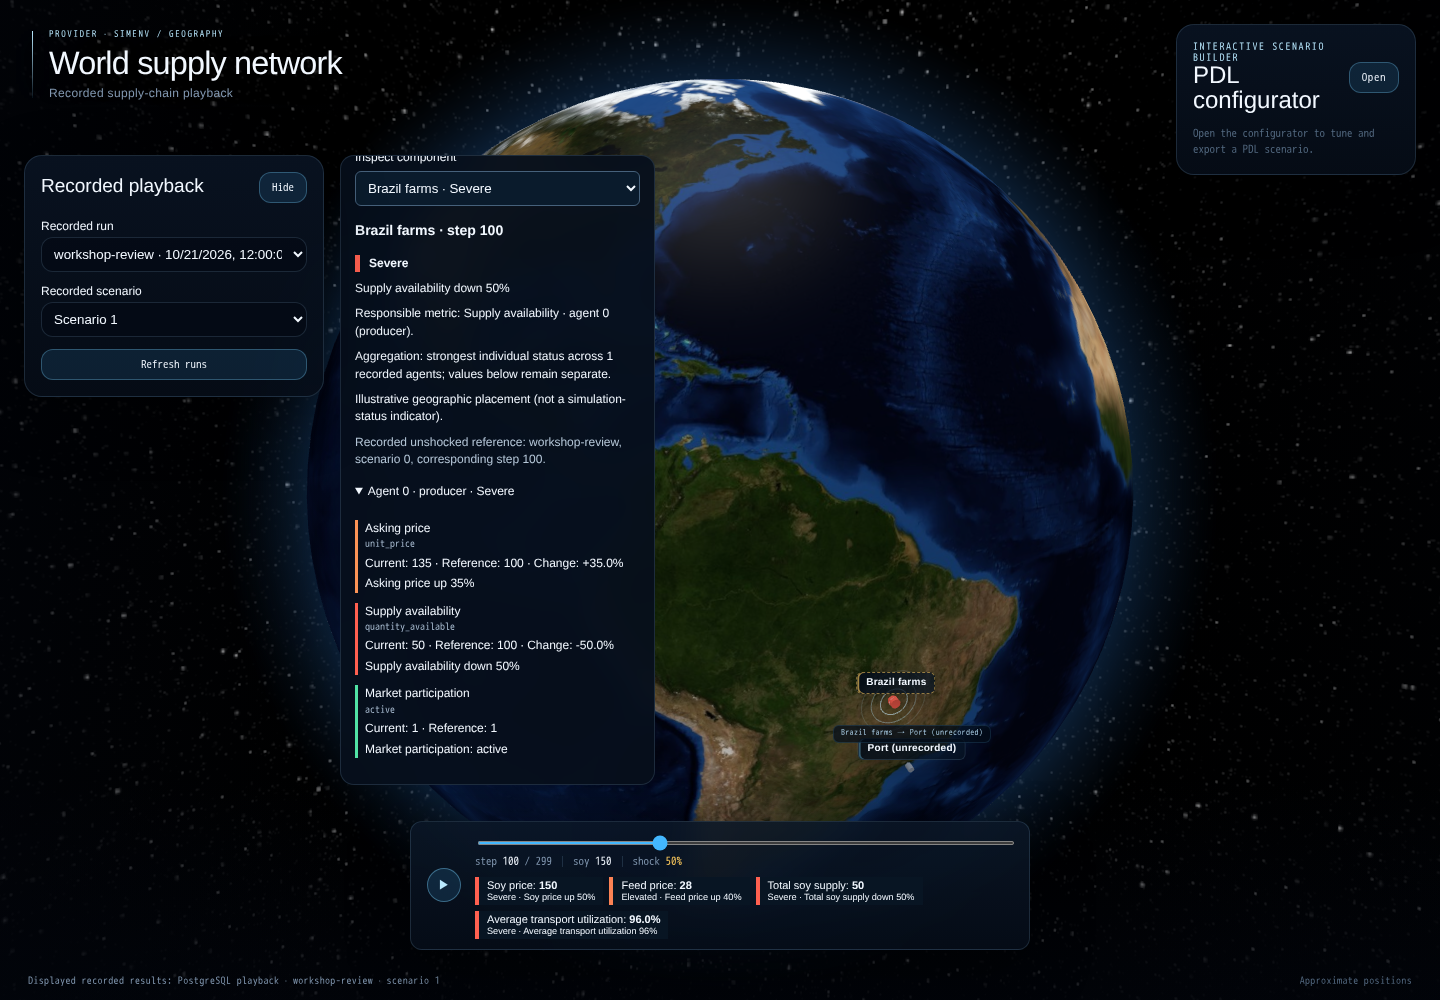
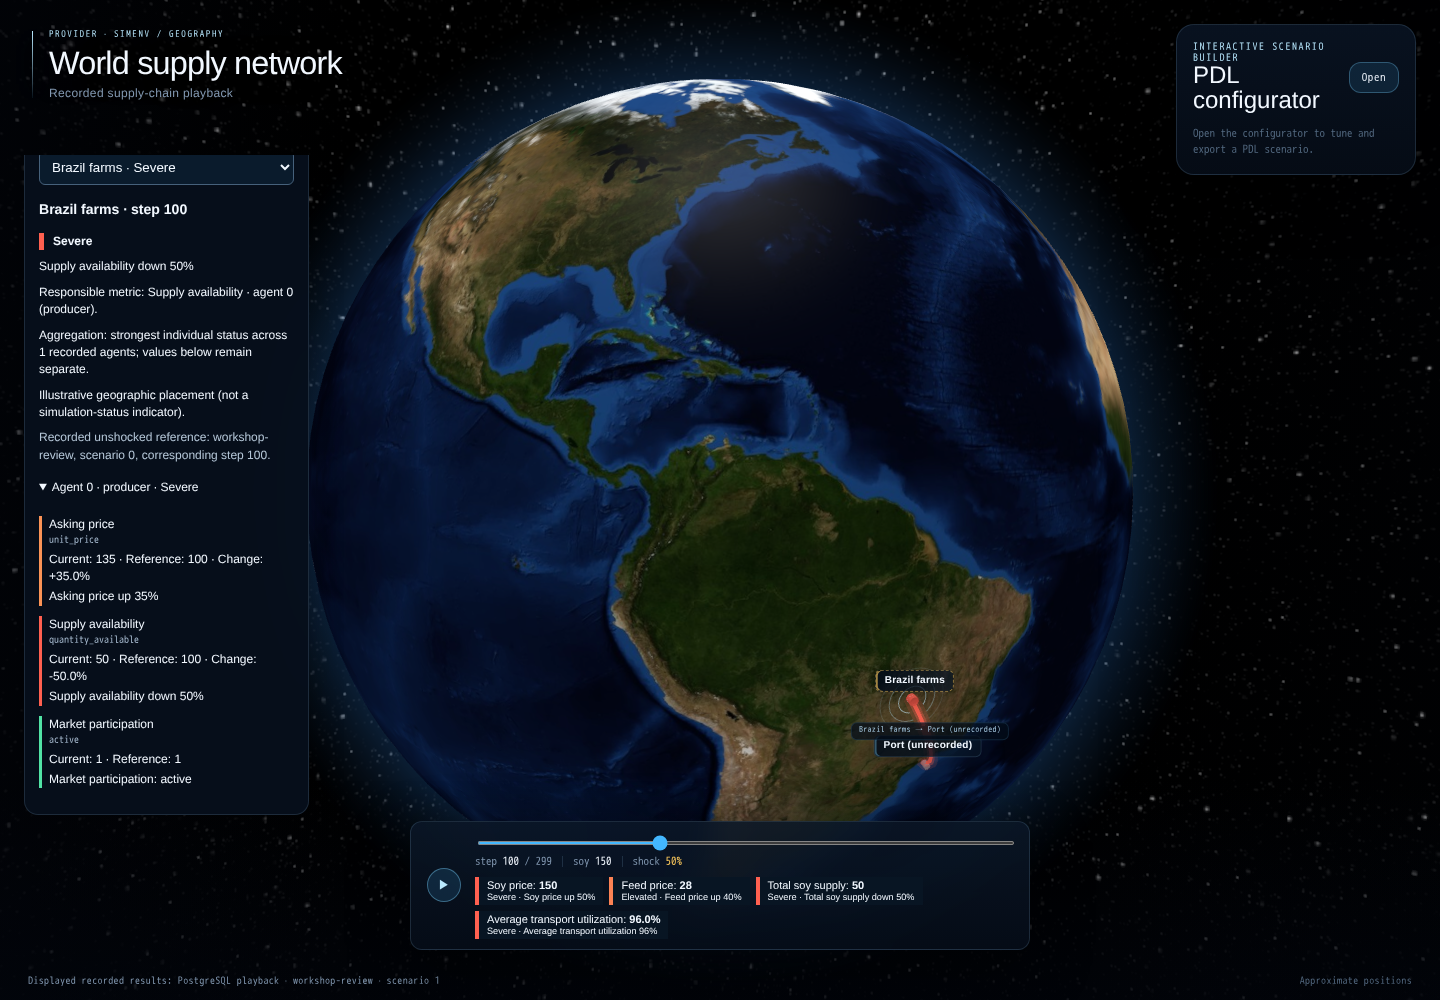
fix: restore network links and stack impact sidebar (#75)

diff --git a/web/src/App.tsx b/web/src/App.tsx
@@ -1,4 +1,5 @@
-import { Profiler, useCallback, useEffect, useMemo, useRef, useState, type CSSProperties } from 'react'
+import { Profiler, useCallback, useEffect, useId, useMemo, useRef, useState, type CSSProperties } from 'react'
+import { createPortal } from 'react-dom'
 import type { PlaybackSource, RunSummary } from './data/playback'
 import { resolveScene } from './data/gazetteer'
 import { designVars } from './design/tokens'
@@ -25,6 +26,7 @@ export default function App({ source }: { source: PlaybackSource }) {
   const [refresh, setRefresh] = useState(0)
   const [offset, setOffset] = useState(0)
   const [nextOffset, setNextOffset] = useState(0)
+  const [impactSlot, setImpactSlot] = useState<HTMLDivElement | null>(null)
   const selection = useRef('')
   const opening = useRef<AbortController | null>(null)
   const refreshRuns = useCallback(() => { setOffset(0); setRefresh(value => value + 1) }, [])
@@ -92,7 +94,8 @@ export default function App({ source }: { source: PlaybackSource }) {
   return <main className="sim-app" style={designVars as CSSProperties}>
     <header className="sim-frame-heading"><p className="sim-frame-eyebrow">PROVIDER · SIMENV / GEOGRAPHY</p>
       <h1>World supply network</h1><p className="sim-frame-subtitle">Recorded supply-chain playback</p></header>
-    <RunSelector runs={runs} selected={selected} scenario={scenario} loading={loading} error={error}
+    <div className="sim-playback-sidebar">
+      <RunSelector runs={runs} selected={selected} scenario={scenario} loading={loading} error={error}
       hasMore={nextOffset < total} onRefresh={refreshRuns} onMore={() => setOffset(nextOffset)}
       onRun={id => {
         const run = runs.find(item => item.id === id)
@@ -101,17 +104,21 @@ export default function App({ source }: { source: PlaybackSource }) {
         selection.current = id; setSelected(id)
         setScenario(run.scenario_ids.includes(1) ? 1 : run.scenario_ids[0])
       }} onScenario={id => { opening.current?.abort(); setScenario(id) }} />
-    {selected ? <SelectedPlayback key={`${selected}:${scenario}`} source={source} run={selected} scenario={scenario} runs={runs} />
+      <div ref={setImpactSlot} />
+    </div>
+    {selected ? <SelectedPlayback key={`${selected}:${scenario}`} source={source} run={selected} scenario={scenario} runs={runs} impactSlot={impactSlot} />
       : <div className="sim-playback-message">Select a completed run for playback.</div>}
     <ScenarioConfigurator meta={{ pdl: 's1-soja.pdl.yaml', scenario: '', ticks: 0, generatedAt: '', honestyNote: '' }} onCompleted={refreshRuns} onViewResults={viewResults} />
   </main>
 }
 
-function SelectedPlayback({ source, run, scenario, runs }: { source: PlaybackSource; run: string; scenario: number; runs: RunSummary[] }) {
+function SelectedPlayback({ source, run, scenario, runs, impactSlot }: { source: PlaybackSource; run: string; scenario: number; runs: RunSummary[]; impactSlot: HTMLElement | null }) {
   const playback = usePlayback(source, run, scenario)
   const [referenceChoice, setReferenceChoice] = useState(() => runs.find(item => item.id === run)?.scenario_ids.includes(0) ? run : 'start')
   const reference = useReference(source, playback.scene, playback.frame, playback.baseline, referenceChoice)
   const [selectedNode, setSelectedNode] = useState('')
+  const [impactExpanded, setImpactExpanded] = useState(true)
+  const impactControlsId = useId()
   const selectedComponent = selectedNode || playback.scene?.nodes[0]?.id || ''
   const scene = useMemo(() => playback.scene ? resolveScene(playback.scene.nodes, playback.scene.edges) : null, [playback.scene])
   const projected = useMemo(() => playback.scene && playback.frame
@@ -129,15 +136,21 @@ function SelectedPlayback({ source, run, scenario, runs }: { source: PlaybackSou
       measure('playback.react', performance.now() - duration)
     }}><GlobeView markers={scene.markers} edges={scene.edges} markerIntensity={projected.markerIntensity} edgeIntensity={projected.edgeIntensity}
       selectedNode={selectedComponent} onSelectNode={setSelectedNode} /></Profiler>}
-    <aside className="sim-status-panel" aria-label="Disturbance impact">
-      <h2>Disturbance impact</h2>
-      <ReferenceSelector runs={runs} choice={referenceChoice} onChange={setReferenceChoice}
+    {impactSlot && createPortal(<aside className="sim-status-panel" aria-label="Disturbance impact">
+      <header className="sim-status-panel-header"><h2>Disturbance impact</h2>
+        <button type="button" aria-expanded={impactExpanded} aria-controls={impactControlsId}
+          aria-label={`${impactExpanded ? 'Hide' : 'Show'} disturbance impact`}
+          onClick={() => setImpactExpanded(value => !value)}>{impactExpanded ? 'Hide' : 'Show'}</button>
+      </header>
+      <div id={impactControlsId} hidden={!impactExpanded}>
+        <ReferenceSelector runs={runs} choice={referenceChoice} onChange={setReferenceChoice}
         explanation={reference.explanation} loading={reference.loading} error={reference.error} onRetry={reference.retry} />
       <StatusLegend />
       {playback.scene && playback.frame && projected && <StatusPanel scene={playback.scene} projected={projected}
         period={playback.frame.period} selected={selectedComponent} onSelect={setSelectedNode}
         reference={[reference.explanation, reference.error, reference.loading ? 'Loading reference' : ''].filter(Boolean).join(' ')} />}
-    </aside>
+      </div>
+    </aside>, impactSlot)}
     {playback.buffering && <p className="sim-playback-message" role="status">Buffering playback…</p>}
     {playback.error && <div className="sim-playback-message"><p role="alert">{playback.error}</p>
       <button type="button" onClick={playback.retryPlayback}>Retry playback</button></div>}

diff --git a/web/src/app.css b/web/src/app.css
@@ -205,9 +205,13 @@ body {
   }
 }
 /* Recorded playback controls remain available with an empty database. */
-.sim-run-selector {
+.sim-playback-sidebar {
   position: absolute; z-index: 10; top: 155px; left: 24px;
-  width: 300px; max-height: calc(100dvh - 340px); overflow-y: auto;
+  width: 300px; max-height: max(100px, calc(100dvh - 340px)); overflow-y: auto;
+  display: grid; gap: 12px; scrollbar-gutter: stable;
+}
+.sim-run-selector {
+  min-width: 0;
   padding: 16px; border: 1px solid var(--sim-color-border);
   border-radius: var(--sim-radius-lg);
   background: linear-gradient(180deg, rgba(9, 19, 34, 0.92), rgba(6, 13, 24, 0.88));
@@ -239,7 +243,7 @@ body {
   .sim-app { overflow-y: auto; padding-bottom: 20px; }
   .sim-app .sim-globe-stage { position: fixed; }
   .sim-app .sim-frame-heading { position: relative; inset: auto; margin: 18px 14px; }
-  .sim-app .sim-run-selector,
+  .sim-app .sim-playback-sidebar,
   .sim-app .sim-playback-message,
   .sim-app .sim-configurator,
   .sim-app .sim-frame-meta,
@@ -247,6 +251,7 @@ body {
     position: relative; inset: auto; transform: none;
     width: calc(100% - 28px); max-width: none; margin: 12px 14px;
   }
+  .sim-app .sim-playback-sidebar { max-height: none; overflow: visible; scrollbar-gutter: auto; }
   .sim-app .sim-configurator { max-height: none; overflow: visible; }
   .sim-app .sim-run-selector { max-height: none; }
   .sim-app .sim-run-selector select { max-width: 100%; width: 100%; }

diff --git a/web/src/playback/status.css b/web/src/playback/status.css
@@ -1,6 +1,5 @@
 .sim-status-panel {
-  position: absolute; z-index: 9; top: 155px; left: 340px;
-  width: 315px; max-height: calc(100dvh - 370px); overflow-y: auto;
+  min-width: 0;
   padding: 14px; border: 1px solid var(--sim-color-border); border-radius: 14px;
   background: rgba(6, 15, 28, .94); backdrop-filter: blur(14px);
   font-size: 12px; line-height: 1.45;
@@ -15,6 +14,8 @@
 .sim-status-panel button { cursor: pointer; }
 .sim-status-panel :focus-visible { outline: 2px solid #b9e9ff; outline-offset: 3px; }
 .sim-status-panel h2 { margin: 0; font-size: 17px; }
+.sim-status-panel-header { display: flex; align-items: center; justify-content: space-between; gap: 8px; }
+.sim-status-panel-header + div:not([hidden]) { margin-top: 12px; }
 .sim-status-panel summary { cursor: pointer; padding: 7px 0; }
 .sim-status-heading { border-left: 5px solid; padding-left: 9px; }
 .sim-status-legend { border-block: 1px solid var(--sim-color-border); margin: 12px 0; }
@@ -27,6 +28,3 @@
 .sim-network-indicators { display: flex; flex-wrap: wrap; gap: 6px; margin-top: 8px; }
 .sim-network-indicators > span { border-left: 4px solid; padding: 3px 8px; background: #081523; font-size: 11px; }
 .sim-network-indicators small { display: block; }
-@media (max-width: 1100px) {
-  .sim-app .sim-status-panel { position: relative; inset: auto; width: calc(100% - 28px); max-height: none; margin: 12px 14px; }
-}

diff --git a/web/src/globe/GlobeView.tsx b/web/src/globe/GlobeView.tsx
@@ -31,7 +31,7 @@ interface ArcDatum {
   intensity: number | null
 }
 
-/** A marker with its current (quantised) playback intensity baked in. */
+/** A marker with its current playback intensity baked in. */
 interface PointDatum extends Marker {
   intensity: number | null
 }
@@ -73,10 +73,10 @@ function arcSpec(layer: ArcLayer) {
   return layer === 'halo' ? arcTok.halo : layer === 'glow' ? arcTok.glow : arcTok.core
 }
 
-/** Arc layer colour, lerped teal → red by the edge intensity. */
-function colorForArc(datum: ArcDatum): string[] {
+/** A constant status color per layer. Arrays denote multi-stop gradients. */
+function colorForArc(datum: ArcDatum): string {
   const spec = arcSpec(datum.layer)
-  return [rgba(hexToRgb(statusColor(datum.intensity)), spec.alpha)]
+  return rgba(hexToRgb(statusColor(datum.intensity)), spec.alpha)
 }
 
 /**
@@ -236,7 +236,7 @@ export default function GlobeView({
         pointAltitude={markerTok.altitude}
         pointRadius={(datum: object) => {
           const point = datum as PointDatum
-           return point.nodeId === selectedNode ? markerTok.selectedRadius : markerTok.radius
+          return point.nodeId === selectedNode ? markerTok.selectedRadius : markerTok.radius
         }}
         pointResolution={18}
         onPointClick={datum => onSelectNode?.((datum as PointDatum).nodeId)}

diff --git a/docs/playback.md b/docs/playback.md
@@ -23,11 +23,14 @@ the catalogue refreshes. Use **View results** to select that exact run's scenari
 1, or select a run/scenario manually, then play, pause, or seek. The
 newest playable run is selected initially. Refresh and More runs browse records.
 
-Run and scenario selection are stacked in the **Recorded playback** panel on
-the left, leaving the central globe clear. The panel starts expanded. Use
-**Hide** to minimize it to its header and **Show** to reopen it; the selected
-run, scenario, and current playback are retained. On smaller screens the panel
-is part of the scrollable page.
+Run and scenario selection are stacked in **Recorded playback**, with
+**Disturbance impact directly below it** in one narrow left sidebar. Both panels
+start expanded and have independent **Hide**/**Show** buttons; run, scenario,
+reference, inspected component and current playback are retained. Desktop panels
+share a single bounded scroll area, so collapsing run selection moves impact up
+naturally without adding an overlay across the globe. On smaller screens the
+sidebar becomes full-width page flow with no nested scrolling. Globe connections
+remain visible in all status states, including gray for unknown upstream status.
 
 Interface examples (using the bundled static demo):
 [collapsed panel](playback-selector-collapsed.png) and
@@ -203,11 +206,18 @@ for the next run**, separate from the submitted input snapshot.
 - [Metric breakdown: disturbed step 100](status-details.png) — current/reference
   values and percentage changes in the scrollable inspector.
 - [Mobile inspection layout](status-mobile.png).
+- [Collapsed impact sidebar](status-sidebar-collapsed.png).
+- [Static-demo network with restored connections](status-static-network.png) and
+  [the same network with impact collapsed](status-static-network-collapsed.png).
 
 The after screenshots use explicitly **controlled recorded-response fixtures**,
 not empirical simulation results. Reproduce from `web/` with Vite configured for
 `VITE_PLAYBACK_API_BASE_URL=http://127.0.0.1:8001`:
-`SIMENV_WEB_URL=http://127.0.0.1:5175 node tests/capture-status.mjs`.
+`SIMENV_WEB_URL=http://127.0.0.1:5175 SIMENV_STATIC_WEB_URL=http://127.0.0.1:5176 node tests/capture-status.mjs`.
+The static-network images use the committed demo bundle rather than intercepted
+responses. For comparison, the
+[previous overlapping layout](https://github.com/PROVIDER-Project/simenv/blob/f216590f2da88b106c2441af1189bff96f1cc00d/docs/status-disturbed.png)
+documents the interface before the sidebar correction.
 Real-service coverage separately submits and opens both supported cascades.
 
 ## Verification
@@ -234,7 +244,11 @@ stack. It submits both cascades, verifies catalogue refresh, opens each exact
 completed run via **View results**, and seeks into a later database page. Status
 browser regressions cover day-0 comparison, recovery, missing/reference failures,
 keyboard inspection, reference switching/refresh, delayed responses, cache eviction
-and exact-ID pagination/retry. Static-demo verification requires a Vite server
+and exact-ID pagination/retry. Edge-bearing globe regressions inspect finite
+THREE curve geometry and RGBA buffers, geographic endpoints, and visible canvas
+pixels through healthy/disturbed/recovered/unknown states and run/scenario changes.
+Sidebar regressions cover independent collapse, continuous playback and resizing.
+Static-demo verification requires a Vite server
 without `VITE_PLAYBACK_API_BASE_URL`; no database fallback is implicit.
 Set `SIMENV_STATIC_WEB_URL` to that second server when running
 `npm run test:playback-browser` to include its static-demo acceptance case;

diff --git a/web/README.md b/web/README.md
@@ -7,10 +7,11 @@ root, then open http://localhost:8080 for recorded-run/scenario selection and
 on-demand database frames. See [Database playback](../docs/playback.md) for API
 configuration, buffering, raw-data fidelity and performance tests.
 
-The **Recorded playback** panel stacks run and scenario selection on the left
-of the globe. It starts expanded; **Hide** minimizes it to its header and
-**Show** restores the controls without changing your selection or interrupting
-playback. On smaller screens the panel follows the page's scrollable layout.
+The narrow left sidebar stacks **Recorded playback** above **Disturbance impact**,
+keeping the central globe clear. Both panels start expanded and have independent
+**Hide**/**Show** buttons that preserve selection and playback. Desktop controls
+share one scroll area, including on short windows. On smaller screens they use
+the page's full-width scrollable layout without nested panel scrolling.
 
 `VITE_PLAYBACK_API_BASE_URL` selects database playback independently of
 `VITE_SIMENV_API_BASE_URL` for submission. Without the playback URL the frontend
